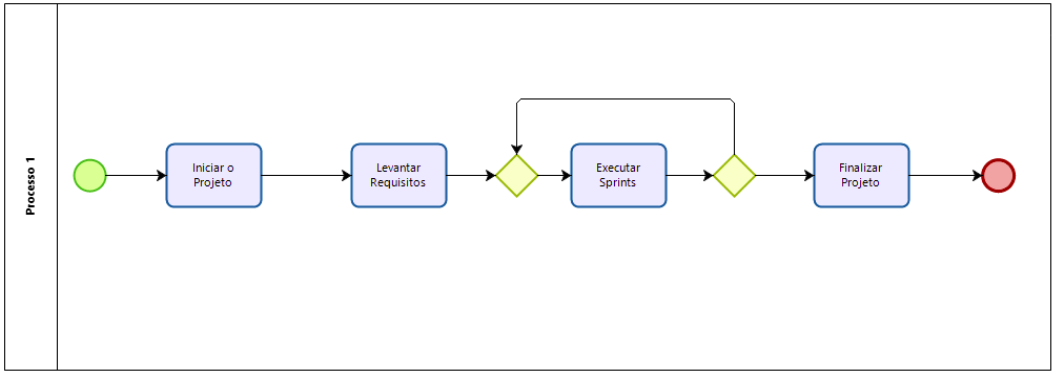
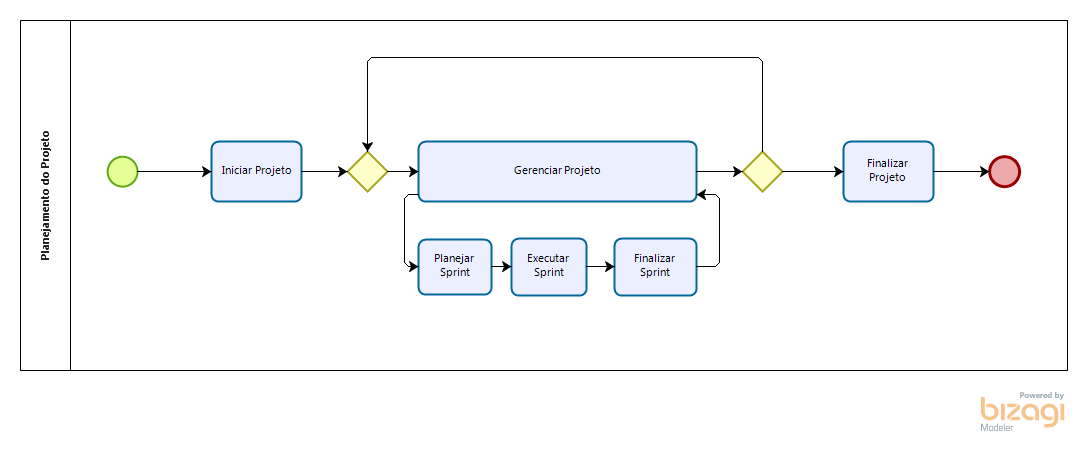
Atualização do ciclo de vida e processos

diff --git a/_posts/2019-05-03-processo-de-desenvolvimento.md b/_posts/2019-05-03-processo-de-desenvolvimento.md
@@ -1,0 +1,102 @@
+---
+layout: post
+title: "Detalhamento"
+author: "WildCat Development"
+---
+
+<div id="indice" />
+
+# CICLO DE VIDA
+
+A metodologia ágil tem como objetivo a aceleração do desenvolvimento de um projeto, fracionando o todo em entregas incrementais, utilizando times auto-organizados e fazendo uso da inteligência coletiva, visando assim atingir uma determinada meta, previamente estabelecida, a cada fase. Sendo assim a WildCat Development escolheu utilizar o modelo iterativo incremental, orientado pela metodologia ágil SCRUM, que através das SPRINTS (fases) trará maior agilidade, eficiência e qualidade na entrega dos projetos.
+
+## Planejamento do projeto
+
+![ciclo-de-vida](../../../img/blog/ciclo-de-vida.png)
+
+## Detalhamento do projeto: Processo
+
+### Planejar Sprint
+
+![planejar-sprint](../../../img/blog/planejar-sprint.png)
+
+#### Priorizar itens do Backlog
+
+O Scrum Team deverá se reunir com o Product Owner para analizar o Product Backlog e definir suas prioridades. Os itens priorizados serão adicionados ao Backlog candidato da Sprint.  
+
+- **Artefatos de Entrada:** Backlog do produto.
+- **Artefatos de Saída:** Backlog candidato da Sprint.
+- **Participantes:** Scrum Team e o Product Owner.
+
+#### Estimar itens priorizados
+
+Será utilizada a técnica Planning Poker para estimar a lista de itens priorizados pelo cliente.  
+
+- **Artefatos de Entrada:** Backlog candidatio da Sprint.
+- **Participantes:** Scrum Team.
+
+#### Definir escopo da Sprint
+
+Análise das atividades do Backlog candidato da Sprint, juntamente com a capacidade da equipe, para verificação de sobrecarga ou falta de trabalho, podendo os itens do Backlog da Sprint ser renegociados com o Product Owner.  
+
+- **Artefatos de Saída:** Backlog da Sprint
+- **Participantes:** Scrum Team e Pruct Owner.
+
+### Executar Sprint
+
+![executar-sprint](../../../img/blog/executar-sprint.png)
+
+**Selecionar as Atividades**
+
+Fase de escolha das atividades que serão desenvolvidas por cada integrante do Scrum Team.  
+
+- **Artefatos de Entrada:** Backlog da Sprint.
+- **Participantes:** Scrum Team.
+
+**Realizar as Atividades**
+
+Fase de desenvolvimento das atividades atribuídas ao Team. Ao surgirem dúvidas, o Product Owner sanará para melhor entendimento da  equipe.  
+
+- **Artefatos de Saída:** Artefatos para Equipe de Teste e Plano de testes.
+- **Participantes:** Scrum Team e Product Owner.
+
+**Executar testes nos artefatos gerados*** 
+
+Fase de controle e testes dos artefatos, podem ser levantadas dúvidas que serão sanadas pelo Product Owner para meljorentendimento da equipe.  
+
+- **Artefatos de Entrada:** Artefatos para Equipe de Teste e Plano de Testes.
+- **Artefatos de Saída:** Relatório da Execução dos Testes.
+- **Participantes:** Scrum Team e Product Owner.
+
+**Adicionar itens finalizados a versão master**  
+
+Fase que consiste em gerar uma nova versão do software, acompanhado de um Release notes (Novas funcionalidades e alterações no sistema) e objetivando a homologação no cliente.
+
+- **Artefatos de Saída:** Release Notes e Versão potencialmente funcional do produto.
+- **Participantes:** Scrum Team.
+
+### Encerrar Sprint
+
+![encerrar-sprint](../../../img/blog/encerrar-sprint.png)**Revisar Sprint**
+
+Revisão e apresentação de tudo que foi realizado durante a Sprint e apresentação do Product Backlog atualizado.  
+
+- **Artefatos de Entrada:** Backlog da Sprint.
+- **Artefatos de Saída:** Backlog do produto atualizado.
+- **Participantes:** Scrum Team e Product Owner.
+
+**Realizar Retrospectiva da Sprint**
+
+Fase de balanço geral da Sprint, onde são revisados os processos, as relações dos participantes, as ferramentas utilizadas, os pontos positivos e negativos e o que pode ser melhorado para a próxima Sprint.
+
+- **Artefatos de Saída:** Listas de lições aprendidas.
+- **Participantes:** Scrum Team.
+
+**Implantar Melhorias**
+
+Se na etapa anterior forem discutidas e sugeridas melhorias, essa é a fase de implantação.
+
+- **Artefatos de Saída:** Listas de lições aprendidas.
+- **Participantes:** Scrum Team e Product Owner.
+
+

diff --git a/README.md b/README.md
@@ -63,3 +63,5 @@ Now run the server:
 ```sh
 $ ./vendor/bundle/ruby/#{YOUR_RUBY_VERSION}/bin/jekyll server
 ```
+
+WildCatDevelopment
